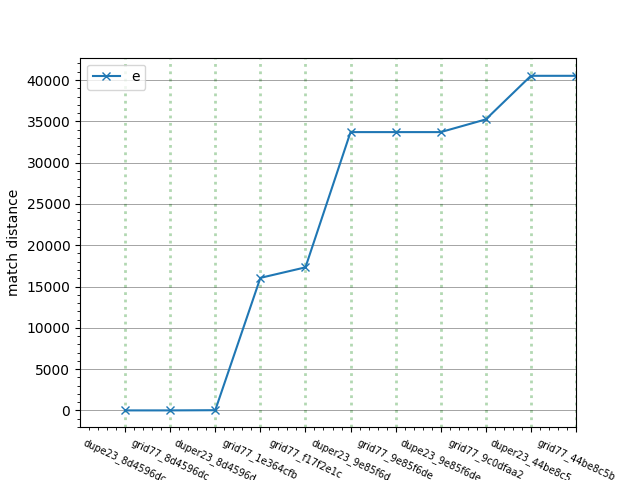
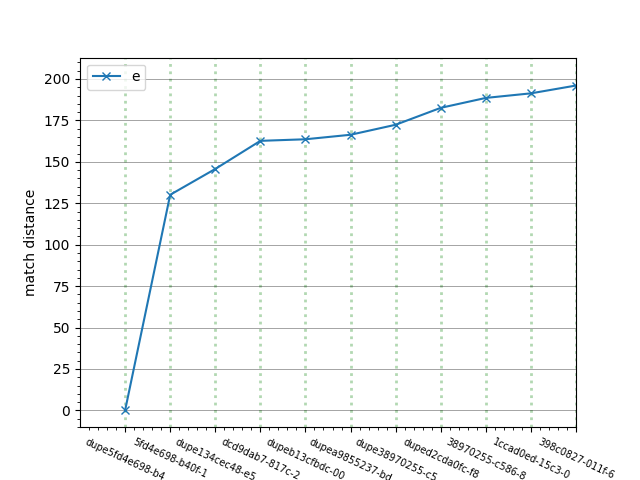
added make images and moved funcs to library

diff --git a/make_images.py b/make_images.py
@@ -1,112 +1,30 @@
+
 import json
 import logging
+import random
 from string2img import *
 from libfunctions import *
 
-from fhir.resources.bundle import Bundle
-from fhir.resources.patient import Patient
-# from fhir.resources.condition import Condition
-# from fhir.resources.observation import Observation
-# from fhir.resources.medicationrequest import MedicationRequest
-# from fhir.resources.procedure import Procedure
-# from fhir.resources.encounter import Encounter
-# from fhir.resources.claim import Claim
-# from fhir.resources.immunization import Immunization
-
-import pyspark
-from delta import *
-
-builder = pyspark.sql.SparkSession.builder.appName("p360POC") \
-    .config("spark.sql.extensions", "io.delta.sql.DeltaSparkSessionExtension") \
-    .config("spark.hadoop.hive.metastore.warehouse.dir", "/work/delta") \
-    .config("spark.driver.memory", "8g") \
-    .config("spark.sql.catalog.spark_catalog", "org.apache.spark.sql.delta.catalog.DeltaCatalog") \
-    .config("spark.jars.packages", 
-                "io.delta:delta-core_2.12:1.1.0,"
-                "org.apache.hadoop:hadoop-aws:3.2.2,"
-                "com.amazonaws:aws-java-sdk-bundle:1.12.180") \
-    .config('spark.executor.instances', 8) \
-    .config("spark.executor.memory", "8g")
-    # .config("spark.sql.warehouse.dir", "/work/delta") \
+builder = make_spark_builder()
 
 spark = configure_spark_with_delta_pip(builder).getOrCreate()
 print(spark.sparkContext)
 
-# This is mandate config on spark session to use AWS S3
-# spark._jsc.hadoopConfiguration().set("com.amazonaws.services.s3.enableV4", "true")
-# spark._jsc.hadoopConfiguration().set("fs.s3a.impl", "org.apache.hadoop.fs.s3a.S3AFileSystem")
-# spark._jsc.hadoopConfiguration().set("fs.s3a.aws.credentials.provider","com.amazonaws.auth.InstanceProfileCredentialsProvider,com.amazonaws.auth.DefaultAWSCredentialsProviderChain")
-# spark._jsc.hadoopConfiguration().set("fs.AbstractFileSystem.s3a.impl", "org.apache.hadoop.fs.s3a.S3A")
-# spark.sparkContext.setLogLevel("DEBUG")
-
-sc =  spark.sparkContext
-# sc.addPyFile("")
+s3BucketName = 'synthea-output'
+s3FolderName =  'Bundles' # 'dupes'
 
 # s3_client = boto3.client('s3')
-# response = s3_client.upload_file("/work/delta/p360_pov.db/patients/", 'synthea-output', "output/delta/patients")
+# response = s3_client.upload_file("/work/delta/p360_pov.db/patients/", s3BucketName, "output/delta/patients")
 
 # exit(0)
 
-logging.basicConfig(filename='unixmen.log', level=logging.DEBUG)
-
 s3 = boto3.resource('s3')
-
-content_object = s3.Object('synthea-output', 'Bundles/Ana_María762_Teresa94_Arevalo970_a9855237-bdde-707e-cf2e-6de590b79d1d.json')
-file_content = content_object.get()['Body'].read().decode('utf-8')
-
-# from IPython.display import JSON
-schema = json.loads(file_content)
-# schema = json.load(open('s3://synthea-output/AWSHealthLakeData/practitionerInformation1661305219780.json'))
-# JSON(schema)
-# print(schema)
-
-def ingestBundle(schema):
-    
-    """
-    This functions extracts all the resources in a given schema and passed back a list of resources found.
-    :return: list
-    :input: a schema of type json
-    """
-
-    oneBundle = Bundle.parse_obj(schema)
-
-    # Resources
-
-    resources = []
-    if oneBundle.entry is not None:
-        for entry in oneBundle.entry:
-            resources.append(entry.resource)
-    
-    return resources
-
-resources = ingestBundle(schema)
-
-    # print(resources[0])
-onePatient = Patient.parse_obj(resources[0])
-
-onePatient.name[0]
-
-# Patient demographics
-onePatientID = onePatient.id
 
 # define resources dataframes
 data = []
-
-# Creating an empty RDD to make a DataFrame
-# with no data
-emp_RDD = spark.sparkContext.emptyRDD()
+schema = None
 
 patientSchema,encounterSchema,conditionSchema= makeSchemas()
-
-# Creating an empty patient DataFrame
-patient_df = spark.createDataFrame(data=emp_RDD, schema=patientSchema)
-# Creating an empty encounter DataFrame
-encounter_df = spark.createDataFrame(data=emp_RDD, schema=encounterSchema)
-# Creating an empty encounter DataFrame
-condition_df = spark.createDataFrame(data=emp_RDD, schema=conditionSchema)
-
-s3BucketName = 'synthea-output'
-s3FolderName =  'Bundles' # 'dupes'
 
 fileList = list_s3_files_using_resource(s3BucketName, s3FolderName)
 
@@ -153,7 +71,7 @@ for fileName in fileList:
 
             resource_data = [onePatientID, \
                             onePatient.identifier[1].value, \
-                            onePatient.name[0].family, \
+                            onePatient.name[0].family + rand_str, \
                             onePatient.name[0].given[0], \
                             onePatient.birthDate, \
                             onePatient.gender, \
@@ -164,12 +82,11 @@ for fileName in fileList:
                             onePatient.address[0].city, \
                             onePatient.address[0].state, \
                             onePatient.address[0].postalCode, \
-                            onePatient.address[0].country]
+                            onePatient.address[0].country + rand_str]
             patientData.append(resource_data)
             
             # Adding to the patient data frame DataFrame
             newPatient_df = spark.createDataFrame(patientData, patientSchema)
-            patient_df = patient_df.union(newPatient_df)
         
         if resources[j].__class__.__name__ == 'Encounter':
 
@@ -193,7 +110,6 @@ for fileName in fileList:
             encounterData.append(resource_data)
             # Adding to the encounter data frame DataFrame
             newEncounter_df = spark.createDataFrame(encounterData, encounterSchema)
-            encounter_df = encounter_df.union(newEncounter_df)
             
         if resources[j].__class__.__name__ == 'Condition':
             
@@ -212,7 +128,6 @@ for fileName in fileList:
 
             # Adding to the condition DataFrame
             newCondition_df = spark.createDataFrame(condtitionData, conditionSchema)
-            condition_df = condition_df.union(newCondition_df)
     
     patient_lst = df2list(newPatient_df.select('PatientUID','NameFamily', \
         'NameGiven','Gender', 'city','state','postalCode'), onePatientID)
@@ -220,50 +135,25 @@ for fileName in fileList:
     patient_img=to_image(patient_lst, 'patient_mask.png')
     # patient_img.save('./imgs/patient_test' + onePatientID + '.png')
 
-    encounter_lst = df2list(newEncounter_df.select('PatientUID','classCode').orderBy(['classCode']), onePatientID,7)
+    encounter_lst = df2list(newEncounter_df.select('PatientUID','classCode').orderBy(['classCode']), onePatientID, random.randint(0, 5))
     # encounter_lst = df2list(newEncounter_df.select('PatientUID','classCode'), onePatientID, 1)
     encounter_img=to_image(encounter_lst,  'encounter_mask.png')
     # encounter_img.save('./imgs/encounter_test' + onePatientID + '.png')
 
-    condition_lst = df2list(newCondition_df.select('PatientUID','conditionCode').orderBy(['conditionCode']), onePatientID,7)
+    condition_lst = df2list(newCondition_df.select('PatientUID','conditionCode').orderBy(['conditionCode']), onePatientID, random.randint(0, 3))
     # condition_lst = df2list(newCondition_df.select('PatientUID','conditionCode'), onePatientID, 2)
     condition_img=to_image(condition_lst, 'condition_mask.png')
     # condition_img.save('./imgs/condition_test' + onePatientID + '.png')
 
-    pil_grid([patient_img,encounter_img, condition_img], 3).save('./imgs/' + onePatientID + '.png')
+    pil_grid([patient_img,encounter_img, condition_img], 3).save('./imgs/dupe' + onePatientID + '.png')
 
+    patientData.clear()
+    encounterData.clear()
+    condtitionData.clear()
     patient_img.close()
     encounter_img.close()
     condition_img.close()
 
-patient_df.show(truncate=True)
-encounter_df.show(truncate=True)
-condition_df.show(truncate=True)
-
-
-# spark.sql("create database if not exists p360_pov")
-# spark.sql("use p360_pov")
-
-# .option("path", "/root/work/delta") \
-
-# patient_df.write \
-#     .format("delta") \
-#         .option("overwriteSchema", "true") \
-#     .mode("overwrite") \
-#     .saveAsTable("patients")
-
-# encounter_df.write \
-#     .format("delta") \
-#         .option("overwriteSchema", "true") \
-#     .mode("overwrite") \
-#     .saveAsTable("encounters")
-
-# condition_df.write \
-#     .format("delta") \
-#     .option("overwriteSchema", "true") \
-#     .mode("overwrite") \
-#     .saveAsTable("conditions")
-
-# patient_df.write.option("header",True).option("delimiter","|").csv("/work/csv/patient")
-# encounter_df.write.option("header",True).option("delimiter","|").csv("/work/csv/encounter")
-# condition_df.write.option("header",True).option("delimiter","|").csv("/work/csv/condition")
+# patient_df.show(truncate=True)
+# encounter_df.show(truncate=True)
+# condition_df.show(truncate=True)

diff --git a/libfunctions.py b/libfunctions.py
@@ -2,6 +2,54 @@ import boto3
 from pyspark.sql.types import StructType, StructField, StringType, DateType
 import matplotlib.pyplot as plt
 
+from fhir.resources.bundle import Bundle
+from fhir.resources.patient import Patient
+# from fhir.resources.condition import Condition
+# from fhir.resources.observation import Observation
+# from fhir.resources.medicationrequest import MedicationRequest
+# from fhir.resources.procedure import Procedure
+# from fhir.resources.encounter import Encounter
+# from fhir.resources.claim import Claim
+# from fhir.resources.immunization import Immunization
+
+import pyspark
+from delta import *
+
+def make_spark_builder():
+
+    builder = pyspark.sql.SparkSession.builder.appName("p360POC") \
+        .config("spark.sql.extensions", "io.delta.sql.DeltaSparkSessionExtension") \
+        .config("spark.hadoop.hive.metastore.warehouse.dir", "/work/delta") \
+        .config("spark.driver.memory", "8g") \
+        .config("spark.sql.catalog.spark_catalog", "org.apache.spark.sql.delta.catalog.DeltaCatalog") \
+        .config("spark.jars.packages", 
+                    "io.delta:delta-core_2.12:1.1.0,"
+                    "org.apache.hadoop:hadoop-aws:3.2.2,"
+                    "com.amazonaws:aws-java-sdk-bundle:1.12.180") \
+        .config('spark.executor.instances', 8) \
+        .config("spark.executor.memory", "8g")
+        # .config("spark.sql.warehouse.dir", "/work/delta") \
+    return builder
+
+def ingestBundle(schema):
+    
+    """
+    This functions extracts all the resources in a given schema and passed back a list of resources found.
+    :return: list
+    :input: a schema of type json
+    """
+
+    oneBundle = Bundle.parse_obj(schema)
+
+    # Resources
+
+    resources = []
+    if oneBundle.entry is not None:
+        for entry in oneBundle.entry:
+            resources.append(entry.resource)
+    
+    return resources
+
 def list_s3_files_using_resource(bucketName, folderName):
     """
     This functions list files from s3 bucket using s3 resource object.

diff --git a/matcher.py b/matcher.py
@@ -3,6 +3,7 @@ from libfunctions import *
 from sewar.full_ref import mse, rmse, psnr, uqi, ssim, ergas, scc, rase, sam, msssim, vifp
 from PIL import Image, ImageChops
 import os
+import numpy as np
 
 # s3BucketName1='synthea-output'
 # s3FolderName1= 'dupes' #'Bundles'
@@ -136,7 +137,7 @@ def sim_ratio_by_parts(im1_path, im2_path, similarity_method):
     else:
         diff_ratio = difference_ratio_by_parts(im1_path, im2_path)
 
-    diff_ratio = (p_similarity_measure ** 2 + enc_similarity_measure *0.5 + cond_similarity_measure *0.5)
+    diff_ratio = (p_similarity_measure * 2.0 + enc_similarity_measure * 0.5 + cond_similarity_measure * 0.5) / 3.0
 
     return diff_ratio
 
@@ -165,7 +166,7 @@ def match_sorted(img_location, method, reverse_order=False):
     # similarity_methods= ['rmse', 'uqi', 'sam', 'ergas']
 
     # assign directory
-    img_dir = './imgs/imgs_no_mask/'
+    img_dir = './imgs/'
 
     match_score={}
     # iterate over files image directory
@@ -184,8 +185,11 @@ def main():
     simmethod = 'ergas' #'scc' #'psnr' #'vifp' #'ssim' #'dffratio'  #'sam' 'rmse' 'uqi' 'ergas'  
 
     # record_to_find= './imgs/imgs_no_mask/grid77_5fd4e698-b40f-19ea-2204-4e9013576661.png'
-    record_to_find= './imgs/imgs_no_mask/dupe23_8d4596dc-614c-ed64-bc63-bfed74ea6e4d.png'
+    # record_to_find= './imgs/imgs_no_mask/dupe23_8d4596dc-614c-ed64-bc63-bfed74ea6e4d.png'
     # record_to_find = './imgs/imgs_no_mask/grid77_81a701f2-ce1b-1119-171c-d939509ba8e5.png'
+
+    record_to_find= './imgs/dupe5fd4e698-b40f-19ea-2204-4e9013576661.png'
+
 
     match_dict=match_sorted(record_to_find, simmethod, reverse_order=(simmethod=='vifp' or simmethod=='uqi' ))
 

diff --git a/string2img.py b/string2img.py
@@ -13,7 +13,7 @@ def to_image(stringlist, maskImage):
     mask = mask.resize(size=imsize)
 
     img = Image.new(size=imsize, mode='L')
-    img = Image.blend(mask, img,alpha=1)
+    img = Image.blend(mask, img,alpha=0.7)
     d = ImageDraw.Draw(img)
     d.multiline_text((0, 0), text=s.lower(), fill='white', align='left')
 
@@ -39,10 +39,10 @@ def main():
     # diff=difference_ratio_by_parts('./imgs/dupe_5fd4e698-b40f-19ea-2204-4e9013576661.png', './imgs/grid3_5fd4e698-b40f-19ea-2204-4e9013576661.png')
     # print(diff)
 
-    img= to_image(['hello','there','its','me'],'encounter_mask.png')
+    img= to_image(['hello','there','its','me'], './encounter_mask.png')
     img.save('./imgs/test.png')
 
-    img2= to_image(['I','love','to see this','working'], 'condition_mask.png')
+    img2= to_image(['I','love','to see this','working'], './condition_mask.png')
     img2.save('./imgs/test1.png')
 
     img3=pil_grid([img,img2],2)
